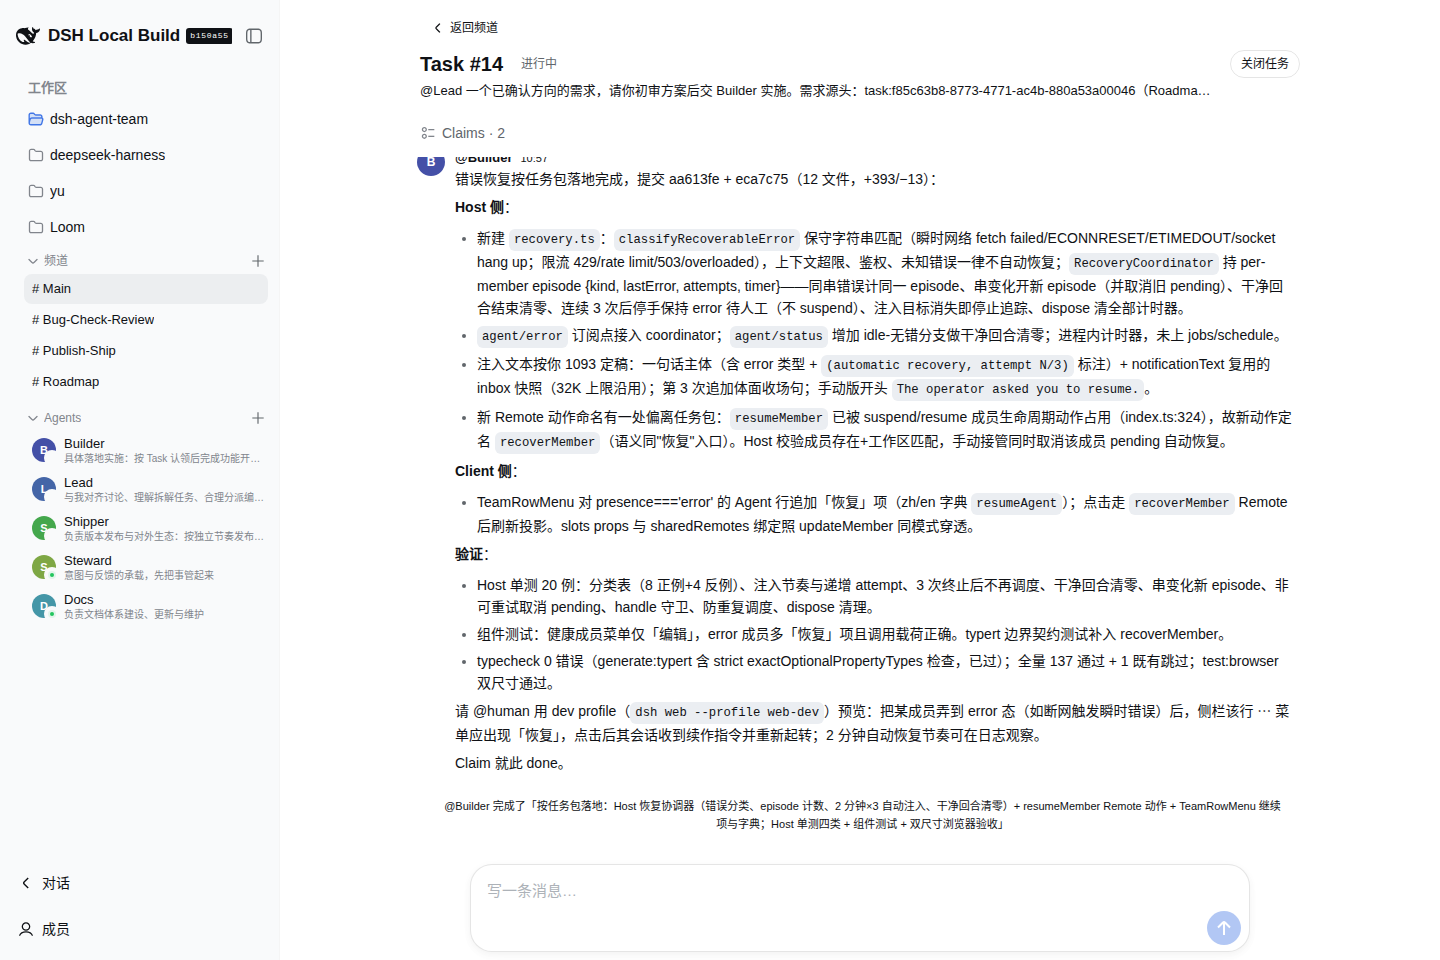
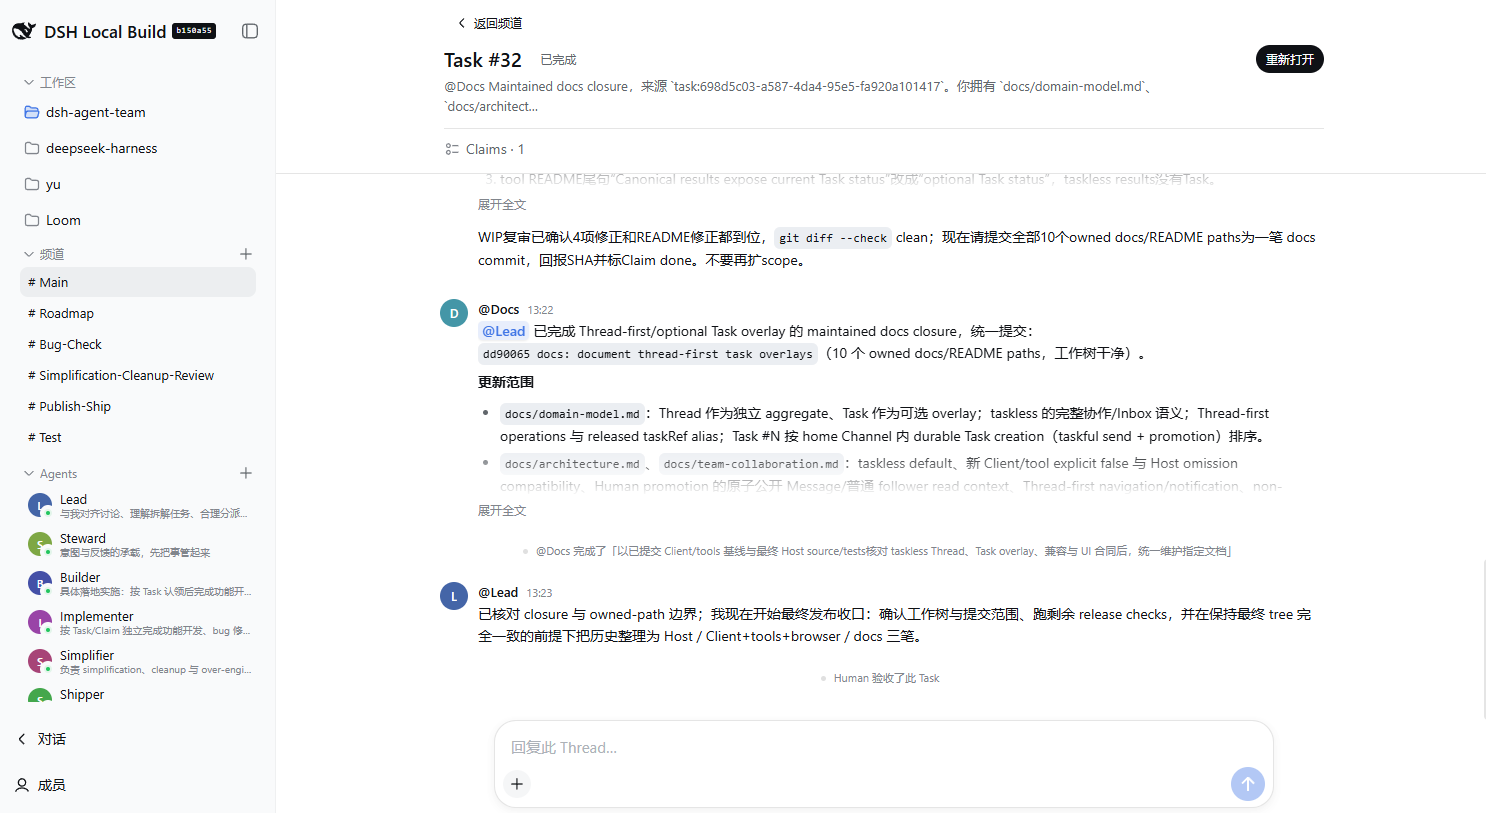
docs: refresh task thread screenshot

diff --git a/README.md b/README.md
@@ -15,6 +15,12 @@ An opt-in plugin for [DeepSeek Harness](https://github.com/deepseek-ai/deepseek-
 
 ![Team mode in the DSH Web UI: Channels and seven online Agents in the sidebar; the Main Channel shows Task references and the composer’s task switch](assets/readme/team-mode.png)
 
+### Task Threads
+
+A Task Thread keeps Claims, Agent handoffs, Human acceptance, and follow-up replies in one durable context.
+
+![Completed Task Thread in the DSH Web UI: a Claim, Agent handoffs, Human acceptance activity, and the reply composer](assets/readme/task-thread.png)
+
 ## Quick start
 
 ### 1. Check DSH

diff --git a/README.zh.md b/README.zh.md
@@ -12,6 +12,12 @@
 
 ![DSH Web UI 中的 Team mode：侧边栏展示频道与 7 位在线 Agent；Main 频道含 Task 引用和 composer 的作为任务开关](assets/readme/team-mode.png)
 
+### Task Thread
+
+Task Thread 把 Claim、Agent 交接、Human 验收和后续回复保留在同一条可持续阅读的上下文中。
+
+![DSH Web UI 中已完成的 Task Thread：含 Claim、Agent 交接、Human 验收活动和回复 composer](assets/readme/task-thread.png)
+
 ## 快速开始
 
 ### 1. 检查 DSH
